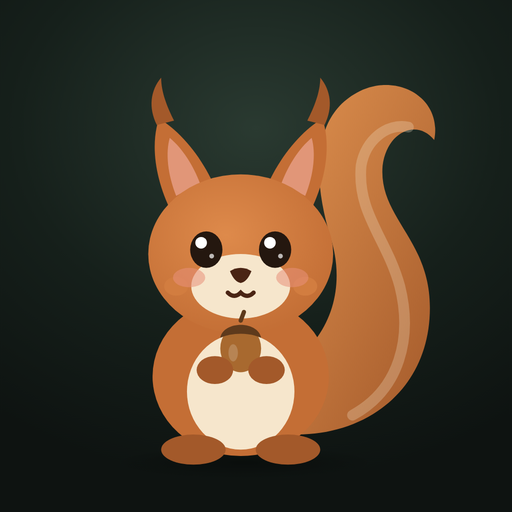
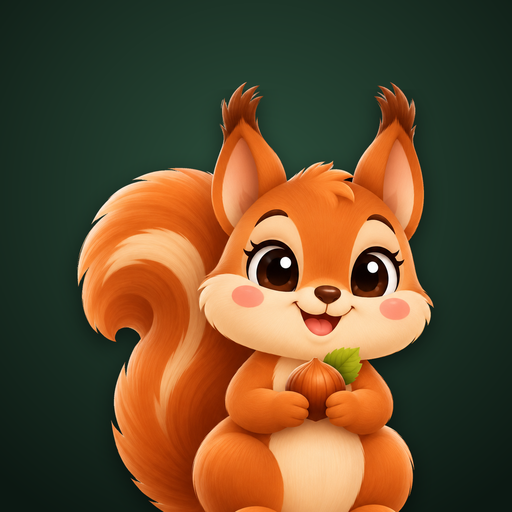
Nouvelle Noisette
Claude-Session: https://claude.ai/code/session_014Qi6w7k6VYht79wz9369HK

diff --git a/js/noisette.js b/js/noisette.js
@@ -1,129 +1,47 @@
-// Noisette — la mascotte de Planque (écureuil original, SVG animé).
+// Noisette — la mascotte de Planque.
+// Trois expressions (yeux ouverts, endormie, contente) superposées ; l'état choisit laquelle
+// est visible et quelle animation joue.
 // États : sleep (dort), awake (éveillée), think (réfléchit), stash (planque), happy (contente).
 // Règle de sécurité : ses réactions ne dépendent JAMAIS du coffre ouvert (vrai ou leurre).
 
-let uid = 0;
+const IMG = 'img/noisette/';
 
-export function noisetteSVG({ state = 'sleep', size = 180, label = 'Noisette, l’écureuil de Planque' } = {}) {
-  const id = `nz${++uid}`;
+export function noisetteHTML({ state = 'sleep', size = 160, label = 'Noisette, l’écureuil de Planque' } = {}) {
   return `
-<svg class="noisette is-${state}" viewBox="0 0 200 200" width="${size}" height="${size}" role="img" aria-label="${label}">
-  <defs>
-    <linearGradient id="${id}-tail" x1="0" y1="0" x2="1" y2="1">
-      <stop offset="0" stop-color="#E39552"/>
-      <stop offset="1" stop-color="#A3592A"/>
-    </linearGradient>
-    <radialGradient id="${id}-head" cx=".42" cy=".38" r=".75">
-      <stop offset="0" stop-color="#DE8A4B"/>
-      <stop offset="1" stop-color="#BF6A32"/>
-    </radialGradient>
-    <radialGradient id="${id}-shadow" cx=".5" cy=".5" r=".5">
-      <stop offset="0" stop-color="#000" stop-opacity=".35"/>
-      <stop offset="1" stop-color="#000" stop-opacity="0"/>
-    </radialGradient>
-  </defs>
-
-  <ellipse class="nz-shadow" cx="100" cy="190" rx="62" ry="8" fill="url(#${id}-shadow)"/>
-
-  <g class="nz-tail">
-    <path d="M112 176 C150 182 186 160 186 118 C186 86 162 76 164 52 C166 36 180 30 188 40
-             C192 20 170 8 152 18 C130 30 132 60 140 86 C148 112 138 140 106 152 Z"
-          fill="url(#${id}-tail)"/>
-    <path d="M150 168 C172 156 178 132 172 108 C166 86 152 74 154 52 C156 40 166 32 176 34"
-          fill="none" stroke="#F6E6CC" stroke-opacity=".28" stroke-width="5" stroke-linecap="round"/>
-  </g>
-
-  <g class="nz-body">
-    <ellipse cx="98" cy="150" rx="41" ry="37" fill="#C46E35"/>
-    <ellipse cx="98" cy="157" rx="25" ry="27" fill="#F6E6CC"/>
-    <ellipse cx="76" cy="184" rx="15" ry="7" fill="#A3592A"/>
-    <ellipse cx="120" cy="184" rx="15" ry="7" fill="#A3592A"/>
-
-    <g class="nz-head">
-      <g class="nz-ear nz-ear-l">
-        <path d="M66 74 C58 58 56 42 60 30 C70 36 80 48 86 62 Z" fill="#C46E35"/>
-        <path d="M68 66 C64 56 63 46 65 39 C71 44 76 52 79 60 Z" fill="#E9A08A" opacity=".8"/>
-        <path d="M59 33 C55 25 56 17 61 11 C61 18 64 25 67 31 Z" fill="#A3592A"/>
-      </g>
-      <g class="nz-ear nz-ear-r">
-        <path d="M130 74 C138 58 140 42 136 30 C126 36 116 48 110 62 Z" fill="#C46E35"/>
-        <path d="M128 66 C132 56 133 46 131 39 C125 44 120 52 117 60 Z" fill="#E9A08A" opacity=".8"/>
-        <path d="M137 33 C141 25 140 17 135 11 C135 18 132 25 129 31 Z" fill="#A3592A"/>
-      </g>
-
-      <ellipse cx="98" cy="93" rx="43" ry="37" fill="url(#${id}-head)"/>
-      <ellipse class="nz-pouch nz-pouch-l" cx="68" cy="108" rx="14" ry="11" fill="#D27D40"/>
-      <ellipse class="nz-pouch nz-pouch-r" cx="128" cy="108" rx="14" ry="11" fill="#D27D40"/>
-      <ellipse cx="98" cy="108" rx="23" ry="15" fill="#F6E6CC"/>
-      <ellipse cx="74" cy="104" rx="7.5" ry="4.5" fill="#E8907A" opacity=".55"/>
-      <ellipse cx="122" cy="104" rx="7.5" ry="4.5" fill="#E8907A" opacity=".55"/>
-
-      <g class="nz-eyes">
-        <g class="nz-eye"><g class="nz-look">
-          <ellipse cx="82" cy="91" rx="7.5" ry="8.5" fill="#24170F"/>
-          <circle cx="79.6" cy="87.8" r="2.7" fill="#fff"/>
-          <circle cx="84.5" cy="94" r="1.1" fill="#fff" opacity=".7"/>
-        </g></g>
-        <g class="nz-eye"><g class="nz-look">
-          <ellipse cx="114" cy="91" rx="7.5" ry="8.5" fill="#24170F"/>
-          <circle cx="111.6" cy="87.8" r="2.7" fill="#fff"/>
-          <circle cx="116.5" cy="94" r="1.1" fill="#fff" opacity=".7"/>
-        </g></g>
-      </g>
-      <g class="nz-lids" fill="none" stroke="#24170F" stroke-width="3" stroke-linecap="round">
-        <path d="M74 92 Q82 98 90 92"/>
-        <path d="M106 92 Q114 98 122 92"/>
-      </g>
-      <g class="nz-joy" fill="none" stroke="#24170F" stroke-width="3.2" stroke-linecap="round">
-        <path d="M75 94 Q82 85 89 94"/>
-        <path d="M107 94 Q114 85 121 94"/>
-      </g>
-
-      <path d="M93 101 Q98 98 103 101 Q101 106 98 106.5 Q95 106 93 101 Z" fill="#4A2414"/>
-      <path class="nz-mouth" d="M92 111 Q95 114 98 111 Q101 114 104 111" fill="none" stroke="#4A2414" stroke-width="2" stroke-linecap="round"/>
-    </g>
-    <g class="nz-nut">
-      <ellipse cx="98" cy="137" rx="9.5" ry="11" fill="#A8692F"/>
-      <path d="M88.5 132 C90 124 106 124 107.5 132 C102 129.5 94 129.5 88.5 132 Z" fill="#5E3A1C"/>
-      <path d="M98 124 l1.5 -4" stroke="#5E3A1C" stroke-width="2" stroke-linecap="round"/>
-      <ellipse cx="94.5" cy="139" rx="2.2" ry="4" fill="#fff" opacity=".18"/>
-    </g>
-    <ellipse class="nz-paw" cx="86" cy="147" rx="8.5" ry="6.5" fill="#A3592A"/>
-    <ellipse class="nz-paw" cx="110" cy="147" rx="8.5" ry="6.5" fill="#A3592A"/>
-
-  </g>
-
-  <g class="nz-zzz" fill="#F6E6CC" font-family="ui-rounded, -apple-system, system-ui" font-weight="800">
-    <text x="140" y="62" font-size="14">z</text>
-    <text x="152" y="46" font-size="18">z</text>
-    <text x="166" y="28" font-size="22">z</text>
-  </g>
-</svg>`;
+<div class="noisette is-${state}" style="--nz:${size}px" role="img" aria-label="${label}">
+  <div class="nz-look"><div class="nz-fig">
+    <img class="nz-awake" src="${IMG}awake.webp" alt="" draggable="false" decoding="async">
+    <img class="nz-sleep" src="${IMG}sleep.webp" alt="" draggable="false" decoding="async">
+    <img class="nz-joy" src="${IMG}joy.webp" alt="" draggable="false" decoding="async">
+  </div></div>
+  <div class="nz-zzz" aria-hidden="true"><span>z</span><span>z</span><span>z</span></div>
+</div>`;
 }
+
+const find = (el) => (el?.matches?.('.noisette') ? el : el?.querySelector?.('.noisette'));
 
 /** Change l'état d'une Noisette déjà affichée. */
 export function setNoisette(el, state) {
-  const svg = el?.matches?.('svg.noisette') ? el : el?.querySelector?.('svg.noisette');
-  if (!svg) return;
-  svg.classList.remove('is-sleep', 'is-awake', 'is-think', 'is-stash', 'is-happy');
-  svg.classList.add(`is-${state}`);
+  const n = find(el);
+  if (!n) return;
+  n.classList.remove('is-sleep', 'is-awake', 'is-think', 'is-stash', 'is-happy');
+  // relancer l'animation même si l'état ne change pas (ex. deux « contente » d'affilée)
+  void n.offsetWidth;
+  n.classList.add(`is-${state}`);
 }
 
-/** Les yeux de Noisette suivent un point (coordonnées écran). */
+/** Noisette se penche vers un point (coordonnées écran). */
 export function lookAt(el, x, y) {
-  const svg = el?.matches?.('svg.noisette') ? el : el?.querySelector?.('svg.noisette');
-  if (!svg) return;
-  const r = svg.getBoundingClientRect();
-  const cx = r.left + r.width / 2;
-  const cy = r.top + r.height * 0.45;
-  const dx = Math.max(-1, Math.min(1, (x - cx) / 160));
-  const dy = Math.max(-1, Math.min(1, (y - cy) / 160));
-  svg.querySelectorAll('.nz-look').forEach((g) => {
-    g.style.transform = `translate(${(dx * 2.6).toFixed(2)}px, ${(dy * 2.4).toFixed(2)}px)`;
-  });
+  const n = find(el);
+  if (!n) return;
+  const r = n.getBoundingClientRect();
+  const dx = Math.max(-1, Math.min(1, (x - (r.left + r.width / 2)) / 180));
+  const dy = Math.max(-1, Math.min(1, (y - (r.top + r.height * 0.4)) / 220));
+  const look = n.querySelector('.nz-look');
+  look.style.transform = `translate(${(dx * 4).toFixed(1)}%, ${(dy * 2).toFixed(1)}%) rotate(${(dx * 5).toFixed(1)}deg)`;
 }
 
 export function resetLook(el) {
-  const svg = el?.matches?.('svg.noisette') ? el : el?.querySelector?.('svg.noisette');
-  svg?.querySelectorAll('.nz-look').forEach((g) => { g.style.transform = ''; });
+  const look = find(el)?.querySelector('.nz-look');
+  if (look) look.style.transform = '';
 }

diff --git a/css/app.css b/css/app.css
@@ -281,60 +281,59 @@ h3 { font-size: 22px; line-height: 28px; letter-spacing: .35px; }
 @keyframes shake { 20%, 60% { transform: translateX(-7px); } 40%, 80% { transform: translateX(7px); } }
 
 /* ---------- Noisette (mascotte) ---------- */
-.noisette { overflow: visible; display: block; }
-.noisette * { transform-box: fill-box; }
-.noisette .nz-tail { transform-origin: 10% 90%; animation: nz-tail 4.5s ease-in-out infinite; }
-.noisette .nz-body { transform-origin: 50% 100%; }
-.noisette .nz-head { transform-origin: 50% 85%; transition: transform .4s var(--ease); }
-.noisette .nz-ear { transform-origin: 50% 100%; }
-.noisette .nz-eye { transform-origin: center; }
-.noisette .nz-look { transition: transform .12s linear; }
-.noisette .nz-lids, .noisette .nz-joy, .noisette .nz-zzz { opacity: 0; transition: opacity .25s; }
-.noisette .nz-eyes { transition: opacity .2s; }
-.noisette .nz-pouch { transform-origin: center; transform: scale(.4); transition: transform .35s var(--ease); }
-.noisette .nz-nut { transform-origin: center; transition: transform .4s var(--ease), opacity .3s; }
+.noisette { position: relative; display: block; width: var(--nz, 160px); height: var(--nz, 160px); flex: none; }
+.noisette::before { /* ombre au sol */
+  content: ''; position: absolute; left: 22%; right: 14%; bottom: -3%; height: 8%;
+  background: radial-gradient(closest-side, rgba(0, 0, 0, .45), transparent); border-radius: 50%;
+}
+.nz-look { position: absolute; inset: 0; transition: transform .14s linear; transform-origin: 50% 100%; }
+.nz-fig { position: absolute; inset: 0; transform-origin: 55% 100%; transition: transform .45s var(--ease); }
+.nz-fig img {
+  position: absolute; inset: 0; width: 100%; height: 100%; object-fit: contain;
+  -webkit-user-drag: none; user-select: none; pointer-events: none; transition: opacity .18s;
+}
+.nz-sleep, .nz-joy { opacity: 0; }
+.nz-zzz { position: absolute; right: -24%; top: -6%; width: 36%; height: 38%; pointer-events: none; opacity: 0; transition: opacity .3s; }
+.nz-zzz span {
+  position: absolute; color: #F6E6CC; font: 800 calc(var(--nz, 160px) * .1)/1 ui-rounded, -apple-system, system-ui;
+  text-shadow: 0 1px 4px rgba(0, 0, 0, .5); opacity: 0;
+}
+.nz-zzz span:nth-child(1) { left: 0; bottom: 0; }
+.nz-zzz span:nth-child(2) { left: 32%; bottom: 34%; font-size: calc(var(--nz, 160px) * .13); }
+.nz-zzz span:nth-child(3) { left: 66%; bottom: 68%; font-size: calc(var(--nz, 160px) * .16); }
 
-.noisette.is-sleep .nz-eyes { opacity: 0; }
-.noisette.is-sleep .nz-lids { opacity: 1; }
-.noisette.is-sleep .nz-body { animation: nz-breathe 3.6s ease-in-out infinite; }
-.noisette.is-sleep .nz-head { transform: rotate(-4deg) translateY(2px); }
+.noisette.is-sleep .nz-awake { opacity: 0; }
+.noisette.is-sleep .nz-sleep { opacity: 1; }
+.noisette.is-sleep .nz-fig { transform: rotate(-3deg); animation: nz-breathe 3.6s ease-in-out infinite; }
 .noisette.is-sleep .nz-zzz { opacity: 1; }
-.noisette.is-sleep .nz-zzz text { animation: nz-z 3s ease-in-out infinite; opacity: 0; }
-.noisette.is-sleep .nz-zzz text:nth-child(2) { animation-delay: .5s; }
-.noisette.is-sleep .nz-zzz text:nth-child(3) { animation-delay: 1s; }
+.noisette.is-sleep .nz-zzz span { animation: nz-z 3s ease-in-out infinite; }
+.noisette.is-sleep .nz-zzz span:nth-child(2) { animation-delay: .5s; }
+.noisette.is-sleep .nz-zzz span:nth-child(3) { animation-delay: 1s; }
 
-.noisette.is-awake .nz-eye { animation: nz-blink 4.2s infinite; }
-.noisette.is-awake .nz-ear { animation: nz-ear 5s ease-in-out infinite; }
+.noisette.is-awake .nz-fig { animation: nz-idle 4s ease-in-out infinite; }
+.noisette.is-awake .nz-sleep { animation: nz-blink 4.2s infinite; }
 
-.noisette.is-think .nz-head { animation: nz-tilt 1.1s ease-in-out infinite; }
-.noisette.is-think .nz-ear-l { animation: nz-twitch .55s ease-in-out infinite; }
-.noisette.is-think .nz-ear-r { animation: nz-twitch .55s ease-in-out .27s infinite; }
-.noisette.is-think .nz-look { transform: translate(1.5px, -2.5px); }
+.noisette.is-think .nz-fig { animation: nz-tilt 1.1s ease-in-out infinite; }
+.noisette.is-think .nz-look { transform: translateY(-2%); }
 
-.noisette.is-stash .nz-pouch { transform: scale(1.12); }
-.noisette.is-stash .nz-nut { animation: nz-gobble 1.2s var(--ease) infinite; }
-.noisette.is-stash .nz-body { animation: nz-munch .3s ease-in-out infinite; }
-.noisette.is-stash .nz-eye { transform: scaleY(.55); }
+.noisette.is-stash .nz-fig { animation: nz-munch .32s ease-in-out infinite; }
+.noisette.is-stash .nz-sleep { animation: nz-blink 1.6s infinite; }
 
-.noisette.is-happy .nz-eyes { opacity: 0; }
+.noisette.is-happy .nz-awake { opacity: 0; }
 .noisette.is-happy .nz-joy { opacity: 1; }
-.noisette.is-happy .nz-body { animation: nz-hop .7s var(--ease) 2; }
-.noisette.is-happy .nz-tail { animation: nz-wag .35s ease-in-out 4; }
+.noisette.is-happy .nz-fig { animation: nz-hop .7s var(--ease) 2; }
 
-@keyframes nz-tail { 0%, 100% { transform: rotate(0); } 50% { transform: rotate(-4deg); } }
-@keyframes nz-wag { 0%, 100% { transform: rotate(0); } 50% { transform: rotate(-9deg); } }
-@keyframes nz-breathe { 0%, 100% { transform: scale(1, 1); } 50% { transform: scale(1.015, 1.03); } }
+@keyframes nz-breathe { 0%, 100% { transform: rotate(-3deg) scale(1, 1); } 50% { transform: rotate(-3deg) scale(1.012, 1.028); } }
+@keyframes nz-idle { 0%, 100% { transform: scale(1, 1); } 50% { transform: scale(1.006, 1.014); } }
 @keyframes nz-z { 0% { opacity: 0; transform: translate(-6px, 8px); } 30% { opacity: .9; } 100% { opacity: 0; transform: translate(4px, -10px); } }
-@keyframes nz-blink { 0%, 46%, 50%, 100% { transform: scaleY(1); } 48% { transform: scaleY(.08); } }
-@keyframes nz-ear { 0%, 80%, 100% { transform: rotate(0); } 85% { transform: rotate(-8deg); } 90% { transform: rotate(4deg); } }
-@keyframes nz-twitch { 0%, 100% { transform: rotate(0); } 50% { transform: rotate(-10deg); } }
-@keyframes nz-tilt { 0%, 100% { transform: rotate(-5deg); } 50% { transform: rotate(5deg); } }
-@keyframes nz-gobble { 0% { transform: translateY(0) scale(1); opacity: 1; } 55% { transform: translateY(-26px) scale(.7); opacity: 1; } 70% { transform: translateY(-30px) scale(.3); opacity: 0; } 71% { transform: translateY(6px) scale(1); opacity: 0; } 100% { transform: translateY(0) scale(1); opacity: 1; } }
-@keyframes nz-munch { 0%, 100% { transform: scale(1, 1); } 50% { transform: scale(1.02, .985); } }
-@keyframes nz-hop { 0%, 100% { transform: translateY(0); } 40% { transform: translateY(-14px) scale(1.02, .98); } 70% { transform: translateY(0) scale(1.03, .96); } }
+@keyframes nz-blink { 0%, 45.5%, 49.5%, 100% { opacity: 0; } 46.5%, 48.5% { opacity: 1; } }
+@keyframes nz-tilt { 0%, 100% { transform: rotate(-5deg); } 50% { transform: rotate(4deg); } }
+@keyframes nz-munch { 0%, 100% { transform: scale(1, 1); } 50% { transform: scale(1.025, .975); } }
+@keyframes nz-hop { 0%, 100% { transform: translateY(0); } 40% { transform: translateY(-12%) scale(1.02, .98); } 70% { transform: translateY(0) scale(1.03, .96); } }
 
 @media (prefers-reduced-motion: reduce) {
   .noisette *, .screen, .how { animation: none !important; transition: none !important; }
+  .noisette.is-sleep .nz-zzz span { opacity: .8; }
 }
 
 

diff --git a/js/app.js b/js/app.js
@@ -1,6 +1,6 @@
 import { Vault, haptic, isNative } from './vault.js';
 import { Forest, MIN_NUTS, strength, forestSVG, miniSVG } from './forest.js';
-import { noisetteSVG, setNoisette, lookAt, resetLook } from './noisette.js';
+import { noisetteHTML, setNoisette, lookAt, resetLook } from './noisette.js';
 import { entropyToWords, wordsToEntropy, countKnown, suggest, choices } from './mnemonic.js';
 
 // ---------------------------------------------------------------------------
@@ -56,7 +56,7 @@ function hydrate(root = document) {
   });
   $$('[data-noisette]', root).forEach((el) => {
     if (el.dataset.hydrated) return;
-    el.innerHTML = noisetteSVG({ state: el.dataset.noisette, size: +el.dataset.size || 160 });
+    el.innerHTML = noisetteHTML({ state: el.dataset.noisette, size: +el.dataset.size || 160 });
     el.dataset.hydrated = '1';
   });
 }

diff --git a/index.html b/index.html
@@ -10,6 +10,7 @@
   <meta name="apple-mobile-web-app-status-bar-style" content="black-translucent">
   <meta name="apple-mobile-web-app-title" content="Planque">
   <meta name="theme-color" content="#000000">
+  <link rel="icon" href="img/icon-192.png">
   <link rel="apple-touch-icon" href="img/apple-touch-icon.png">
   <link rel="manifest" href="manifest.webmanifest">
   <title>Planque</title>
